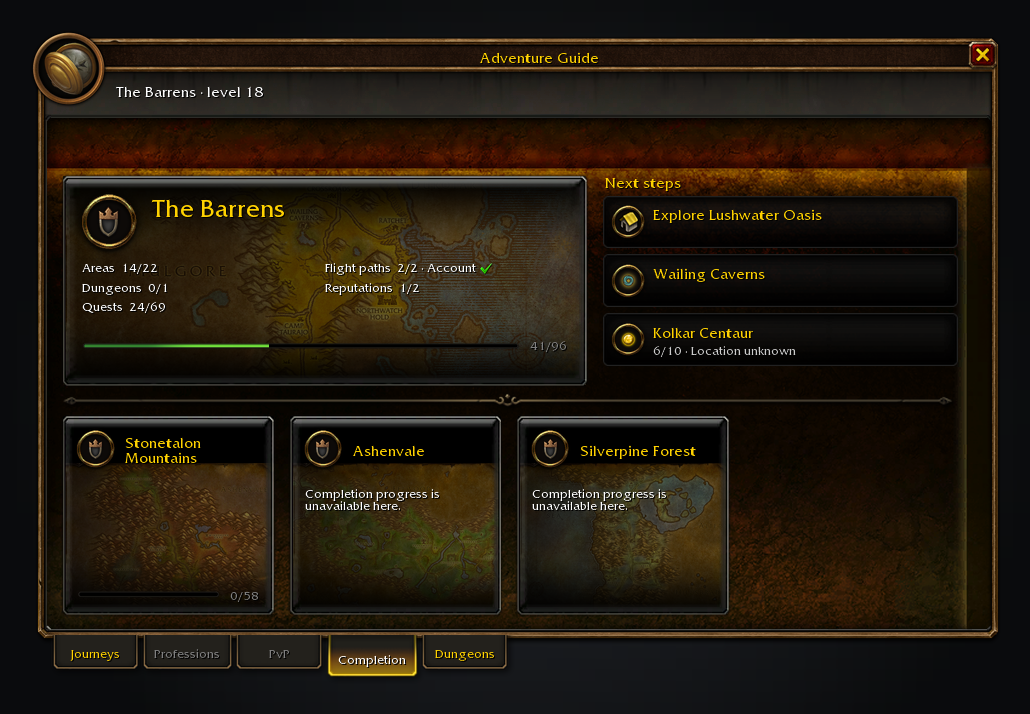
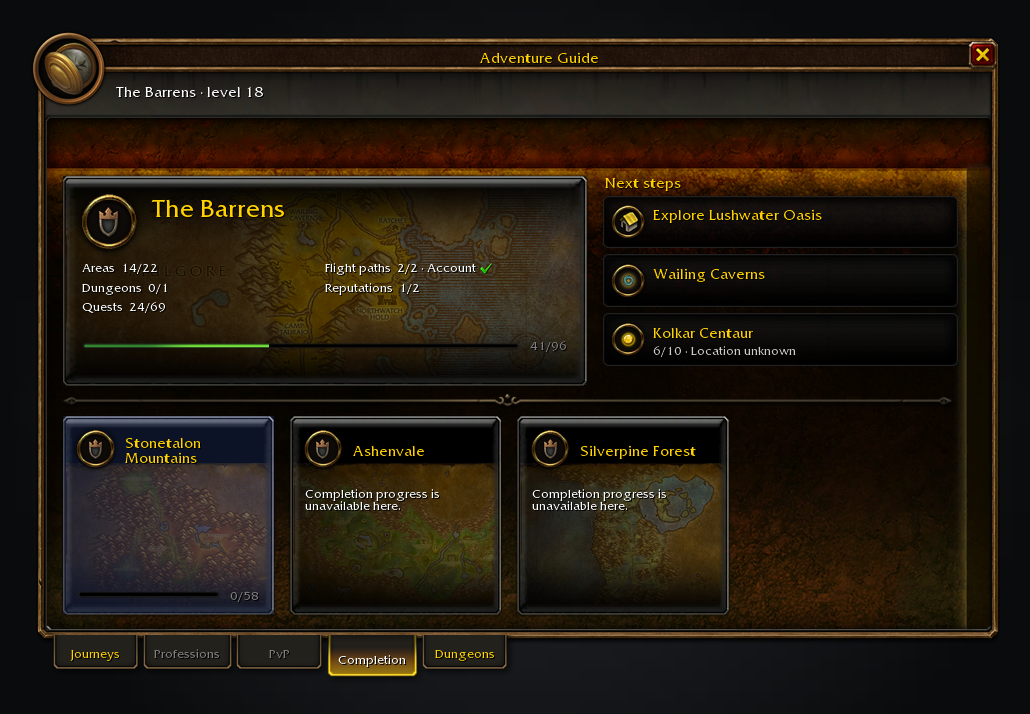
Make clickable cards and suggestions visibly highlight on hover (#56)
Completion and journey cards now highlight above their child map art and
shading. Trainer suggestions, other suggestion buttons, and profession
selectors also gain hover feedback; static cards stay unhighlighted.
Hover clears when cards are left, hidden or disabled.

Validation: full Lua suite, focused card-layer/lifecycle regression,
LuaLS, lint/format, Sift and changelog checks passed. Mock screenshots
were regenerated twice with identical manifests and the hovered
completion card was inspected. Review found no remaining actionable
issues.

Live check pending: WoW exited during this pass. After loading this
version, hover Completion zone cards, journey cards, trainer suggestions
and profession selectors; move off them and switch tabs to confirm
highlights clear.

Changed region(s): [[0.0621, 0.5854, 0.2796, 0.8627]]

diff --git a/CHANGELOG.md b/CHANGELOG.md
@@ -11,6 +11,10 @@ verbatim rather than rewritten as the addon moves.
 
 ## [Unreleased]
 
+## [0.3.3] - 2026-09-28
+
+- **Clickable cards light up on hover.** Completion zones and journey cards show their subtle highlight above the map art, so it is clear which cards you can select. Trainer and other suggestions also highlight; static information cards stay unchanged.
+
 ## [0.3.2] - 2026-09-28
 
 - **Bosses without listed loot stay visible.** AtlasLoot still supplies encounter details and loot, while the bundled database fills missing bosses such as Oggleflint and Bazzalan in Ragefire Chasm.
